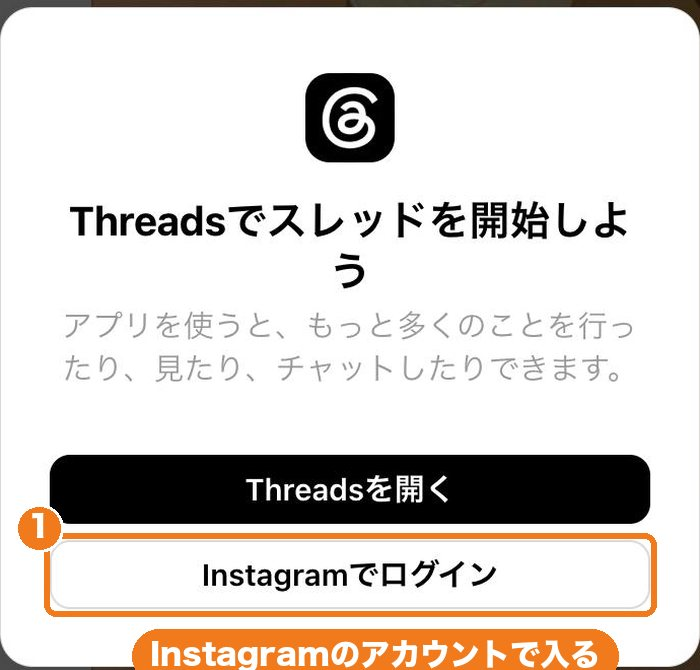
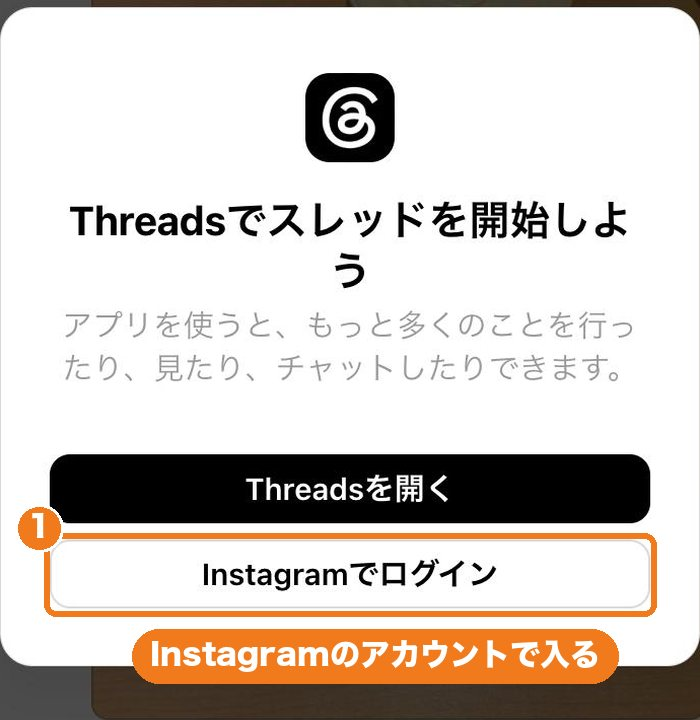
sns: 点検2回目の指摘を反映

diff --git a/honkoza/sns/index.html b/honkoza/sns/index.html
@@ -42,9 +42,14 @@ figcaption{font-size:15px;color:var(--sub);margin-top:6px}
 .future .big{font-size:24px;font-weight:900;color:var(--navy);line-height:1.5;margin:4px 0 10px}
 .future ul{margin:0;padding-left:1.2em}
 .future li{margin:4px 0;font-weight:700}
-.minipro{display:flex;gap:14px;align-items:center;background:var(--white);border-radius:18px;padding:12px;margin-top:14px}
-.minipro img{width:44%;max-width:240px;height:auto;border-radius:12px;border:2px solid var(--line)}
-.minipro p{margin:0;font-size:16px;font-weight:700}
+.mock{background:var(--white);border-radius:20px;padding:16px;margin-top:14px;border:2px solid var(--line)}
+.mtop{display:flex;gap:12px;align-items:center}
+.mav{flex:none;width:52px;height:52px;border-radius:50%;background:linear-gradient(135deg,var(--teal),var(--gold));color:#fff;font-weight:900;font-size:24px;display:flex;align-items:center;justify-content:center}
+.mname{font-weight:900;color:var(--navy);font-size:18px;line-height:1.4}
+.muser{font-size:14px;color:var(--sub)}
+.mbio{white-space:pre-line;margin:10px 0;font-size:16px;font-weight:700;line-height:1.7}
+.mpost{background:var(--soft);border-radius:14px;padding:10px 12px;font-size:16px;font-weight:600}
+.mpost b{display:block;color:var(--teal);font-size:14px}
 .okline{background:var(--gold-l);border-radius:14px;padding:8px 14px;font-weight:800;margin:8px 0}
 .check{list-style:none;padding:0;margin:10px 0}
 .check li{display:flex;gap:12px;align-items:flex-start;padding:12px 4px;border-bottom:1px dashed var(--line);cursor:pointer}
@@ -62,7 +67,8 @@ figcaption{font-size:15px;color:var(--sub);margin-top:6px}
 @keyframes pop{0%{transform:scale(.6);opacity:0}100%{transform:scale(1);opacity:1}}
 .bring{display:flex;flex-wrap:wrap;gap:8px;margin:8px 0}
 .bring span{background:var(--soft);border-radius:999px;padding:4px 14px;font-weight:800;font-size:16px}
-.q{background:var(--soft);border-radius:16px;padding:12px 14px;margin:8px 0}
+.qlist{background:var(--soft);border-radius:16px;padding:12px 14px 12px 2.2em;margin:10px 0;font-weight:700;font-size:17px}
+.qlist li{margin:6px 0}
 .q span{display:block;font-weight:700}
 .q button,.copyall{font:inherit;font-size:15px;font-weight:900;border:0;border-radius:12px;padding:8px 14px;background:var(--teal);color:#fff;cursor:pointer;margin-top:8px}
 .q button.ok,.copyall.ok{background:var(--gold)}
@@ -160,9 +166,13 @@ t.src=v;s=b.getElementsByTagName(e)[0];s.parentNode.insertBefore(t,s)}(window,do
     <li>プロフィール画像</li>
     <li>そのまま出せる投稿案が3本</li>
   </ul>
-  <div class="minipro">
-    <img src="img/f_th_profile.jpg" width="1100" height="795" alt="完成したThreadsのプロフィールの見本（森川）">
-    <p>見本は森川のThreadsです。直近30日で、78万人に読まれました。もともとのフォロワーは、そのうち413人だけ。<br>フォロワーがいなくても、知らない人に届くのがThreadsです。</p>
+  <div class="mock">
+    <div class="mtop"><div class="mav">さ</div><div><div class="mname">さとう｜共働き家庭の家計を整える係</div><div class="muser">sato_kakei</div></div></div>
+    <div class="mbio">保育園・小学生のいるご夫婦の、毎月のお金を一緒に整理します。
+難しい言葉は使いません。まずは話してみてください。
+5問でわかる、わが家のお金のタイプ診断はこちら↓</div>
+    <div class="mpost"><b>投稿案（1本目）</b>「通帳を見るのが、ちょっとこわい」そう話してくれたご夫婦が、3か月後に笑って言ったこと。</div>
+    <p class="src" style="margin:8px 0 0">見本です（名前・文は例）。あなたの「選ばれる理由」から、当日いっしょに作ります。</p>
   </div>
 </section>
 
@@ -175,30 +185,30 @@ t.src=v;s=b.getElementsByTagName(e)[0];s.parentNode.insertBefore(t,s)}(window,do
   <ul class="check" id="check">
     <li data-k="1"><span class="box">✓</span><span class="t"><span>このページの「1」〜「3」をざっと読む</span><small>「当日やること」は29日に一緒に見ます。今は開かなくてOK</small></span><span class="min">5分</span></li>
     <li data-k="2"><span class="box">✓</span><span class="t"><span>Instagramのアカウントがあるか確かめる</span><small>あるなら、私用か仕事用か</small></span><span class="min">1分</span></li>
-    <li data-k="3"><span class="box">✓</span><span class="t"><span>スマホに「Threads」「Instagram」「Zoom」のアプリを入れる</span><small>アプリを入れるパスワードが分からなければ、当日でOK</small></span><span class="min">5分</span></li>
-    <li data-k="4"><span class="box">✓</span><span class="t"><span>会社のルールを確かめる相手に、すぐ下の質問を送っておく</span><small>会社員の方は会社に、代理店の方は保険会社か代理店の管理者に。返事は待たなくてOK</small></span><span class="min">3分</span></li>
+    <li data-k="3"><span class="box">✓</span><span class="t"><span>スマホに「Threads」と「Instagram」のアプリを入れる</span><small>アプリを入れるパスワードが分からなければ、当日でOK</small></span><span class="min">5分</span></li>
+    <li data-k="4"><span class="box">✓</span><span class="t"><span>会社のルールを確かめる相手に、すぐ下の質問を送っておく</span><small>会社員の方は会社に、代理店の方は保険会社か代理店の管理者に。返事は待たなくてOK。送る相手が分からなければ、相手を決めるだけでOK（29日に一緒に確認します）</small></span><span class="min">3分</span></li>
     <li data-k="5"><span class="box">✓</span><span class="t"><span>プロフィール画像の候補を1枚、スマホに保存する</span><small>自分の写真か、週3の画像</small></span><span class="min">3分</span></li>
     <li data-k="6"><span class="box">✓</span><span class="t"><span>週1の「選ばれる理由」3つを、スマホのメモに入れる</span><small><a href="https://kinyu-ai-college.vibely.site/courses/f894dc91-b003-45f0-9ce8-123ff4a66792/chapters/bfac9e69-cbfa-487b-a86f-be50befdae18" onclick="event.stopPropagation()">週1の章を開く</a></small></span><span class="min">2分</span></li>
     <li data-k="7"><span class="box">✓</span><span class="t"><span>私用と分けたい人だけ：仕事用のメールアドレスを控えておく</span></span><span class="min">1分</span></li>
   </ul>
   <div class="done" id="done">準備ばっちりです。29日、一緒に作りましょう！</div>
   <h3>当日の持ち物</h3>
-  <div class="bring"><span>📱 スマホ（充電しておく）</span><span>🔑 Instagramのパスワード（ある人）</span><span>💻 Zoomに入るパソコン</span></div>
+  <div class="bring"><span>📱 スマホ（充電しておく）</span><span>🔑 Instagramのパスワード（ある人）</span><span>💻 Zoomに入るパソコン（ない人はスマホでOK）</span></div>
   <p class="src">チェックは、このスマホ（パソコン）の中だけに残ります。</p>
 </section>
 
 <section id="rule" class="fade">
   <h2><span class="no">Q</span>準備の4番：会社に送る質問</h2>
   <p>お金のしくみや考え方の話は、多くの会社で発信できます。ただ、商品を勧めたり比べたりすると「募集」になり、承認が要ります。代理店の方も、委託先の保険会社のルールに従います。</p>
-  <p>下のボタンで、5つの質問をまとめてコピーして、そのまま送れます。</p>
+  <p>下のボタンで、5つの質問をまとめてコピーして、メールやLINEにそのまま貼れます。</p>
   <button class="copyall" id="all">5つの質問をまとめてコピー</button>
-  <div id="qs">
-    <div class="q"><span>個人のSNS（Threads・note）で、お金や保険の一般的なしくみを発信してもよいですか。届け出や事前の確認は要りますか。</span><button>この1問だけコピー</button></div>
-    <div class="q"><span>プロフィールに、会社名・募集人であること・資格を書いてもよいですか。書いてはいけない言い方はありますか。</span><button>この1問だけコピー</button></div>
-    <div class="q"><span>商品名や保険料に触れたい場合、事前承認（募集文書の番号）の手続きはどうなっていますか。</span><button>この1問だけコピー</button></div>
-    <div class="q"><span>プロフィールに相談の窓口（診断ページ・LINE公式）を置いてもよいですか。お客様とのやりとりに、記録や保存のルールはありますか。</span><button>この1問だけコピー</button></div>
-    <div class="q"><span>SNS運用の社内規程やマニュアルがあれば、いただけますか。</span><button>この1問だけコピー</button></div>
-  </div>
+  <ol class="qlist" id="qs">
+    <li>個人のSNS（Threads・note）で、お金や保険の一般的なしくみを発信してもよいですか。届け出や事前の確認は要りますか。</li>
+    <li>プロフィールに、会社名・募集人であること・資格を書いてもよいですか。書いてはいけない言い方はありますか。</li>
+    <li>商品名や保険料に触れたい場合、事前承認（募集文書の番号）の手続きはどうなっていますか。</li>
+    <li>プロフィールに相談の窓口（診断ページ・LINE公式）を置いてもよいですか。お客様とのやりとりに、記録や保存のルールはありますか。</li>
+    <li>SNS運用の社内規程やマニュアルがあれば、いただけますか。</li>
+  </ol>
   <div class="robo"><img src="img/mascot_invite.webp" width="64" height="64" alt=""><p>返事が来る前でも、29日はアカウント作りとプロフィールまで進められます。投稿は、確かめてからで大丈夫です。</p></div>
 </section>
 
@@ -226,7 +236,7 @@ t.src=v;s=b.getElementsByTagName(e)[0];s.parentNode.insertBefore(t,s)}(window,do
     <div class="stat"><strong><span data-n="78">78</span>万人</strong><span class="l">に届いた</span></div>
     <div class="stat"><strong>約<span data-n="8">8</span>割</strong><span class="l">が35〜64歳</span></div>
   </div>
-  <figure><img src="img/f_th_age.jpg" width="1100" height="921" alt="Threadsのインサイト。読んだ人の年齢は35〜64歳が約8割"><figcaption>読んだ人の年齢。保険・お金の相談をする年代と、ほぼ重なります。</figcaption></figure>
+  <figure><img src="img/f_th_age.jpg" width="1100" height="369" alt="Threadsのインサイト。読んだ人の年齢は35〜64歳が約8割"><figcaption>読んだ人の年齢（35〜64歳の部分）。保険・お金の相談をする年代と、ほぼ重なります。</figcaption></figure>
   <p>読んだ78万人のうち、もともとのフォロワーは413人。<b>ほとんどが、まだ森川を知らない人</b>です。</p>
   <h3>でも、弱みもあります</h3>
   <p>読まれる数のわりに、フォロワーは30日で11人しか増えていません。投稿の中のリンクも、ほとんど押されていません。Threadsは「読んで、反応して、流れていく」場所だからです。</p>
@@ -288,7 +298,7 @@ t.src=v;s=b.getElementsByTagName(e)[0];s.parentNode.insertBefore(t,s)}(window,do
         <figure><img src="img/f_ig_phone.jpg" width="700" height="821" alt="Instagramの登録画面。携帯番号の入力と、メールアドレスで登録のボタン"><figcaption>②仕事用のメールで作るなら「メールアドレスで登録」</figcaption></figure>
         <figure><img src="img/f_ig_email.jpg" width="700" height="616" alt="メールアドレスの入力画面"><figcaption>③メールアドレスを入れて「次へ」</figcaption></figure>
       </div>
-      <figure><img src="img/f_th_login.jpg" width="700" height="670" alt="Threadsの入口。Instagramでログインのボタン"><figcaption>⑥「Instagramでログイン」。メールで始める画面が出たら、それでも大丈夫です。</figcaption></figure>
+      <figure><img src="img/f_th_login.jpg" width="700" height="720" alt="Threadsの入口。Instagramでログインのボタン"><figcaption>①「Instagramでログイン」（手順の6番）。メールで始める画面が出たら、それでも大丈夫です。</figcaption></figure>
       <div class="ng"><b>つまずきやすい所</b><br>・確認コードが届かない → 1分待って「再送信」。それでもダメならメールで登録し直す<br>・作りたてで、たくさんフォローしたり続けて投稿したりすると、一時的に止められることがあります。初日はプロフィールを整えて、投稿は1本まで</div>
     </div>
   </details>
@@ -317,7 +327,7 @@ t.src=v;s=b.getElementsByTagName(e)[0];s.parentNode.insertBefore(t,s)}(window,do
   <div class="kicker">次の作業会</div>
   <div class="big">10月29日（木）20:00〜21:30</div>
   <p>Threadsを作って、プロフィールを整えて、投稿案を3本。出せる人は、自己紹介を1本。</p>
-  <p class="src">困ったら、スマホの画面をZoomで見せてもらいながら一緒にやります。</p>
+  <p class="src">スマホでThreadsを操作しながら、パソコンのZoomで一緒に見ます。</p>
 </section>
 
 <footer>※本教材は情報提供であり、活用の判断と結果は受講生ご本人の責任です。所属会社の規程が常に本教材より優先します。<br>金融AIカレッジ 本講座1期</footer>
@@ -335,8 +345,7 @@ t.src=v;s=b.getElementsByTagName(e)[0];s.parentNode.insertBefore(t,s)}(window,do
   function copy(text,btn){var o=btn.textContent;var done=function(){btn.textContent='コピーしました';btn.classList.add('ok');setTimeout(function(){btn.textContent=o;btn.classList.remove('ok')},1500)};
     function fb(){var t=document.createElement('textarea');t.value=text;document.body.appendChild(t);t.select();try{document.execCommand('copy')}catch(e){}t.remove();done()}
     if(navigator.clipboard){navigator.clipboard.writeText(text).then(done,fb)}else fb()}
-  [].forEach.call(document.querySelectorAll('.q button'),function(b,i){b.addEventListener('click',function(){copy(b.previousElementSibling.textContent,b);window.fxTrack&&fxTrack('SnsCopyQuestion',{q:i+1})})});
-  document.getElementById('all').addEventListener('click',function(){var t=[].map.call(document.querySelectorAll('.q span'),function(s,i){return (i+1)+'. '+s.textContent}).join('\n');copy('SNSでの発信について、教えてください。\n'+t,this);window.fxTrack&&fxTrack('SnsCopyQuestion',{q:'all'})});
+    document.getElementById('all').addEventListener('click',function(){var t=[].map.call(document.querySelectorAll('#qs li'),function(s,i){return (i+1)+'. '+s.textContent}).join('\n');copy('SNSでの発信について、教えてください。\n'+t,this);window.fxTrack&&fxTrack('SnsCopyQuestion',{q:'all'})});
   [].forEach.call(document.querySelectorAll('details'),function(d,i){d.addEventListener('toggle',function(){if(d.open&&window.fxTrack)fxTrack('SnsOpen',{i:i})})});
   var io=('IntersectionObserver' in window)?new IntersectionObserver(function(es){es.forEach(function(e){if(e.isIntersecting){e.target.classList.add('in');
     [].forEach.call(e.target.querySelectorAll('[data-n]'),function(el){if(el.dataset.d)return;el.dataset.d=1;var to=+el.dataset.n,t0=performance.now();(function f(t){var p=Math.min(1,(t-t0)/900);el.textContent=Math.round(to*p);if(p<1)requestAnimationFrame(f)})(t0)});
